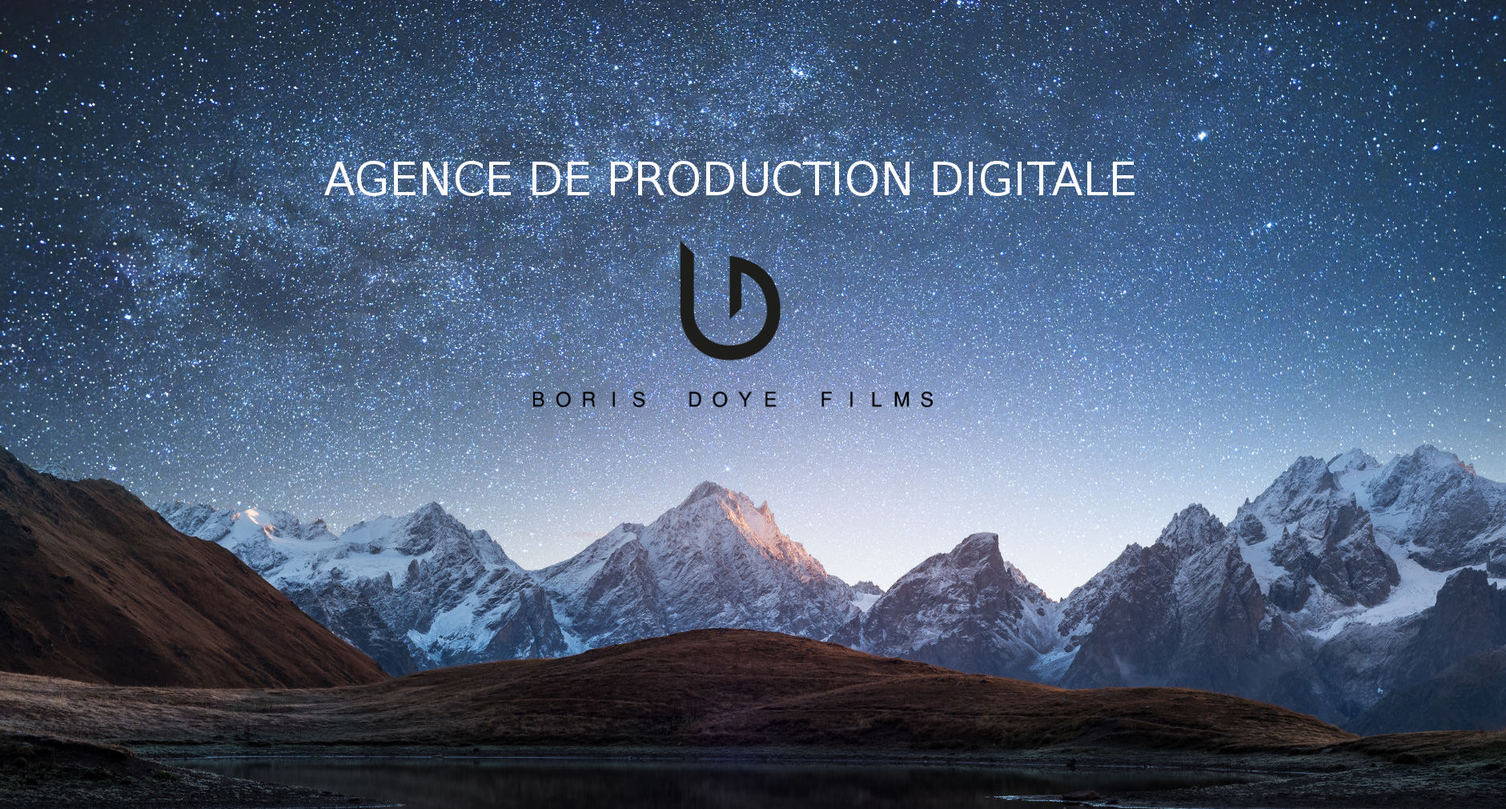
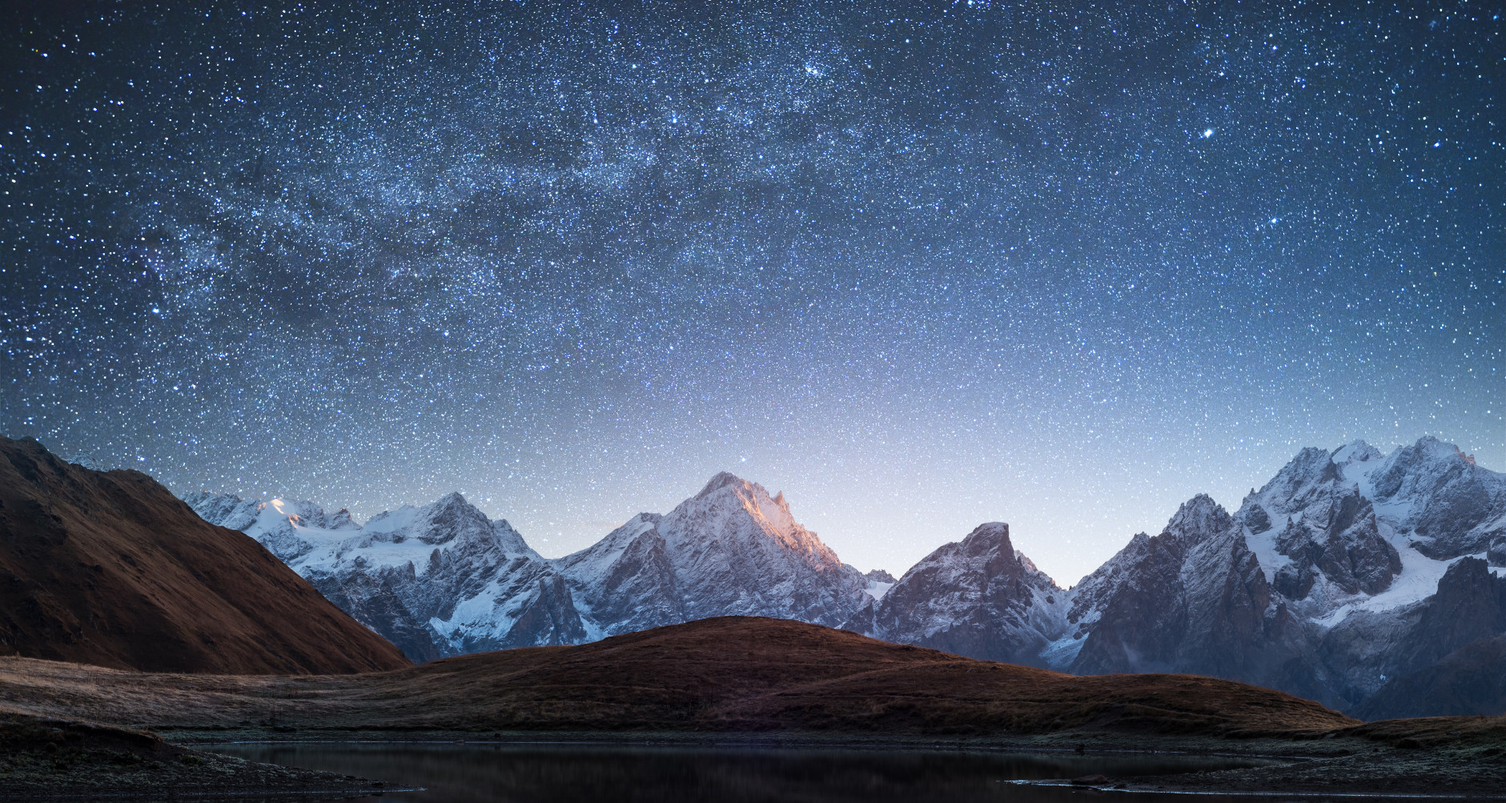
ajout, texte background fixe sous video slider + en savoir plus bouton ancre

diff --git a/src/components/Home/home.sass b/src/components/Home/home.sass
@@ -114,15 +114,6 @@
   margin-bottom: 5em
  
 .presentationAgenceTitle
-  font-family: 'News Cycle', sans-serif
-  font-size: 56px
-  line-height: 21px
-  color: #ffffff
-  font-weight: 700
-  
-
- 
-
   
   @media only screen and (max-width : 475px) 
    
@@ -131,15 +122,35 @@
    letter-spacing: 7px
    margin: 5% 2% 2% 2%
    text-align: center
+   font-family: 'News Cycle', sans-serif
+   font-size: 16px
+   line-height: 21px
+   color: #ffffff
+   font-weight: 700
+   position: absolute
+   top: 80px
+   left: 0px
+   z-index: 3
+
   
  
   @media only screen and (min-width : 475px) 
    letter-spacing: 0.2rem
    text-transform: uppercase
-   margin: 3% 2% 2% 30%
-   font-size: 3em
+   margin: 0% 2% 2% 20%
+   font-size: 4em
    padding-top: 2.5em
-    
+   display: inline
+   font-family: 'News Cycle', sans-serif
+   font-size: 56px
+   line-height: 21px
+   color: #ffffff
+   font-weight: 700
+  
+   position: absolute
+   top: 0px
+   left: 0px
+   z-index: 3
 
   
 
@@ -167,11 +178,54 @@
    font-size: 2em
    
 .logoBorisNoir
+  @media only screen and (max-width : 475px) 
+   position: absolute
+   top: 160px
+   left: 100px
+   z-index: 3
+   width: 130px
+
+   height: auto
   
-  height: auto
+   margin: 1.8% 0% 0% 3%
+   overflow: hidden
+  @media only screen and (min-width : 475px) 
+   position: absolute
+   top: 260px
+   left: 0px
+   z-index: 3
+
+   height: auto
   
-  margin: 1.8% 0% 0% 38%
-  overflow: hidden
+   margin: 1.8% 0% 0% 35%
+   overflow: hidden
+
+.ensavoirplus
+  @media only screen and (max-width : 475px) 
+   display: none
+  
+  @media only screen and (min-width : 475px)
+   width: 200px
+   height: 50px
+   display: block
+  
+   position: absolute
+   top: 600px
+   left: 820px
+   z-index: 3
+   white-space: nowrap
+   font-size: 15px
+   line-height: 17px
+   font-weight: 500
+   color: rgb(255, 255, 255)
+   letter-spacing: 2px
+   font-family: "Roboto"
+   text-transform: uppercase
+   background-color: rgba(0, 0, 0, 0.75)
+   border-radius: 3px
+   padding: 18px 40px 0px 30px
+
+
 
 .iconeMontagne
   @media only screen and (max-width : 475px) 
@@ -182,7 +236,7 @@
     width: 60em
     margin: 5% 0% 3% 24%
 
-.quisommesnous
+#quisommesnous
   @media only screen and (max-width : 475px) 
    width: 100%
    height: 2000px
@@ -190,7 +244,7 @@
 
   @media only screen and (min-width : 475px)
    width: 100%
-  height: 950px
+  height: 920px
   background-color: #282828
 
 .presentationAgenceServices1

diff --git a/src/components/Slider/index.js b/src/components/Slider/index.js
@@ -9,11 +9,14 @@ import showreel from 'src/assets/images/Showreel.jpg'
 import { Player } from 'video-react';
 import AwesomeSliderStyles from './slider.css';
 
+import './slider.sass'
+
+
 let iFrame
 if (window.innerWidth<475) {
-iFrame=<iframe  src="https://player.vimeo.com/video/198345088?loop=1&title=0&byline=0&portrait=0" width="400" height="400" frameborder="0" allow="autoplay; fullscreen" allowfullscreen></iframe>
+iFrame=<iframe  src="https://player.vimeo.com/video/198345088?loop=1&title=0&byline=0&portrait=0&background=1" width="400" height="400" frameborder="0" allow="autoplay; fullscreen" allowfullscreen></iframe>
 } else {
-iFrame=<iframe  src="https://player.vimeo.com/video/198345088?loop=1&title=0&byline=0&portrait=0" width="1920" height="1080" frameborder="0" allow="autoplay; fullscreen" allowfullscreen></iframe>
+iFrame=<iframe  className="iframeSlider" src="https://player.vimeo.com/video/198345088?loop=1&title=0&byline=0&portrait=0&background=1" width="1900" height="1080" frameborder="0" allow="autoplay; fullscreen" allowfullscreen></iframe>
 }
 const Slider = (
    console.log(window.innerWidth), 
@@ -21,11 +24,14 @@ const Slider = (
   
   cssModule={AwesomeSliderStyles}
      >
-      <div data-src={bigPictureReal2}>
-      <p></p> </div>
      
-      <div >{iFrame}
+     <div data-src={bigPictureReal2}>
       </div>
+      
+      <div >
+      {iFrame}
+      </div>
+      
     </AwesomeSlider>
   );
 

diff --git a/src/components/Home/index.js b/src/components/Home/index.js
@@ -26,6 +26,7 @@ import { faPhotoVideo} from '@fortawesome/free-solid-svg-icons'
 import { faMusic} from '@fortawesome/free-solid-svg-icons'
 import { faThumbsUp} from '@fortawesome/free-solid-svg-icons'
 import { faCameraRetro} from '@fortawesome/free-solid-svg-icons'
+import { HashLink as Link } from 'react-router-hash-link';
 
 
 import './home.sass';
@@ -44,7 +45,6 @@ const Home= () => {
   const iconPhoto = <FontAwesomeIcon className="iconPhoto" icon={faCameraRetro}/>
 
  
-
   let sectionStyle={
     width: "100%",
     height: "1000px",
@@ -55,12 +55,13 @@ const Home= () => {
   }
     return <div>
     <div> 
- 
-    {slider}
-
-  
+    <Link to="#quisommesnous"> <div className="ensavoirplus">En savoir plus</div></Link>
+      {slider}
   </div>
- <div className="quisommesnous">
+  <div className="presentationAgenceTitle" >AGENCE DE PRODUCTION DIGITALE</div>
+  <img className="logoBorisNoir" src={logoBorisNoirPetit} alt="logoBorisNoir"/>	    <img className="logoBorisNoir" src={logoBorisNoirPetit} alt="logoBorisNoir"/>
+ 
+<div id="quisommesnous">
 
     <img className="iconeMontagne" src={iconMontagne} alt="iconeMontagne"/>
     

diff --git a/src/components/Slider/slider.sass b/src/components/Slider/slider.sass
@@ -1,0 +1,3 @@
+@import src/styles/vars
+
+
